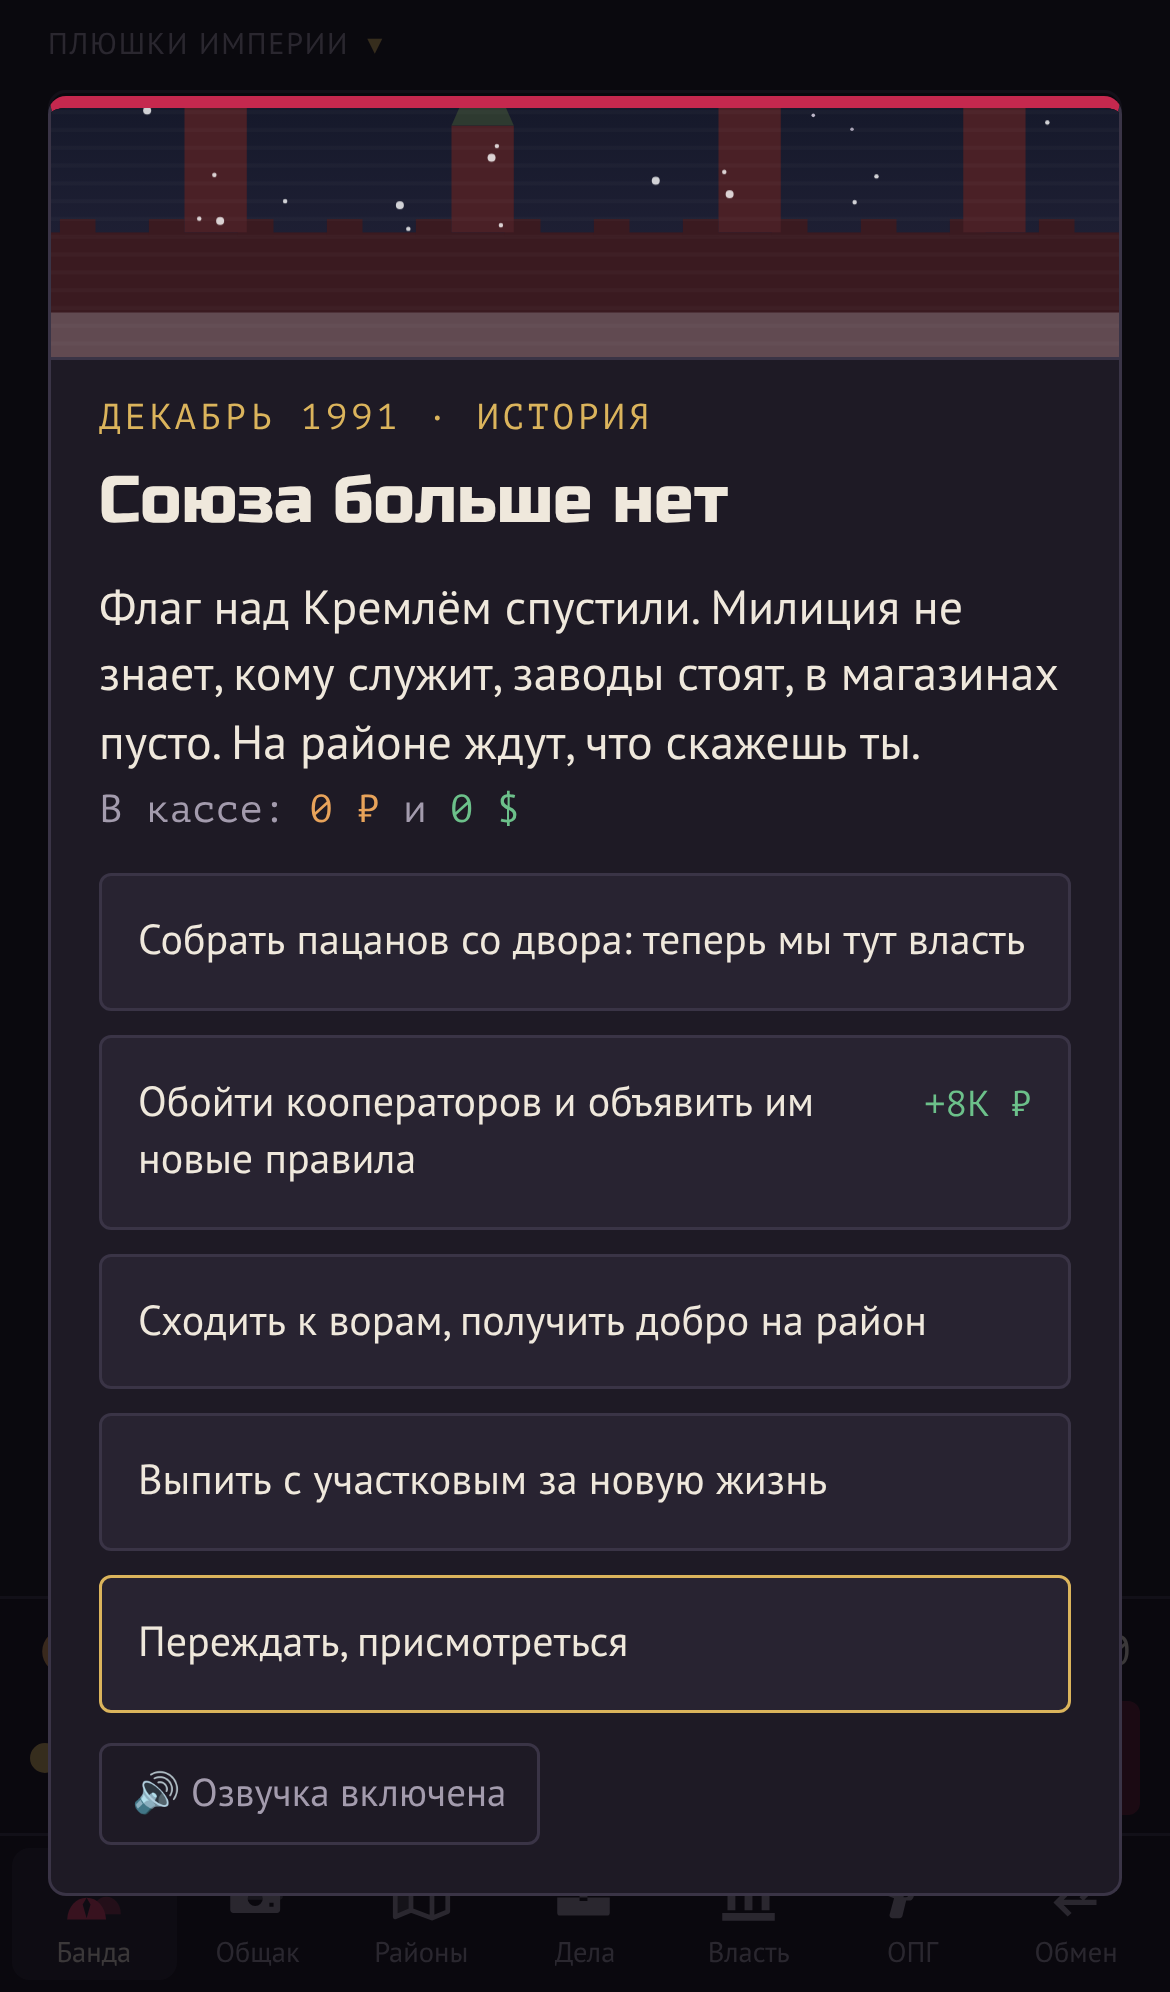
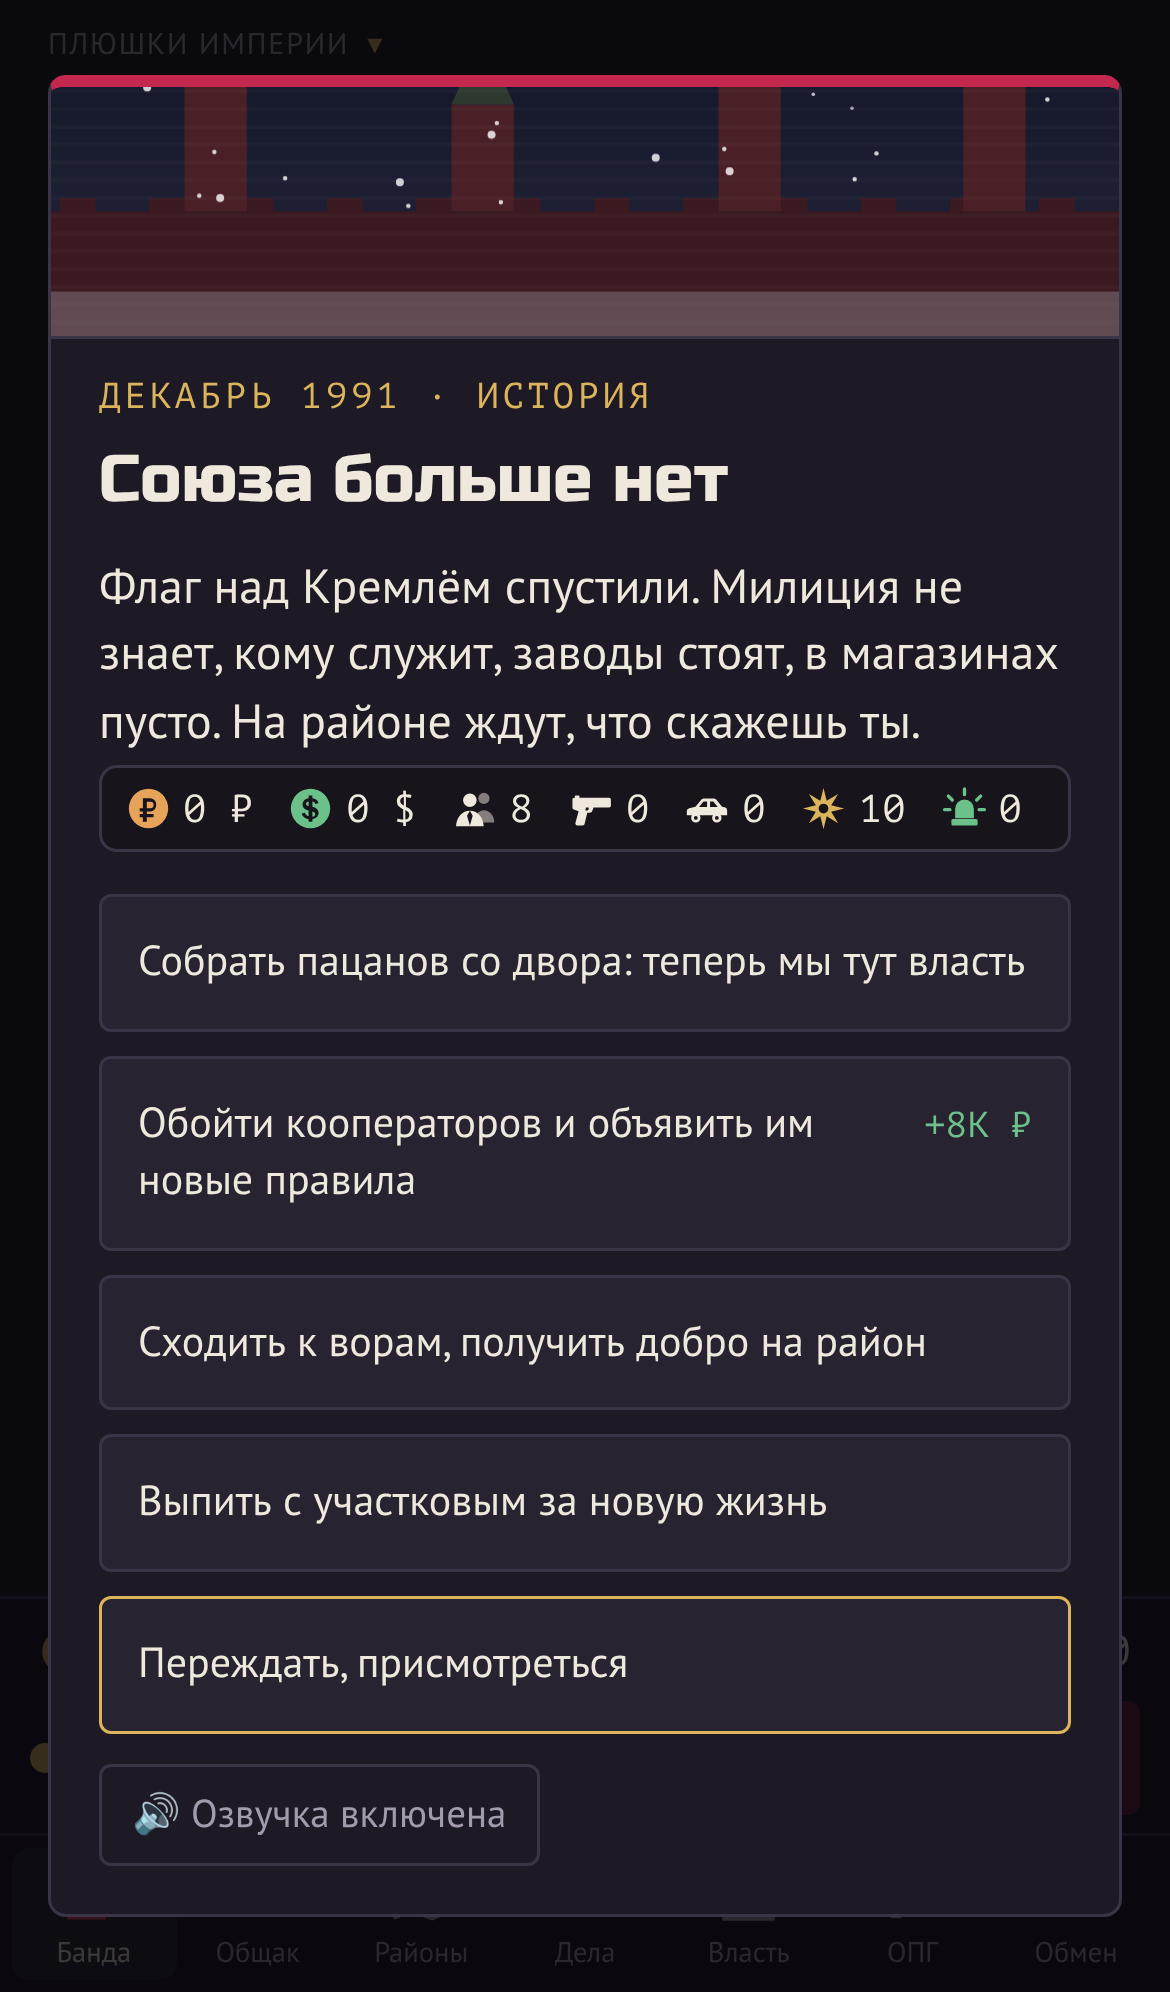
События: под текстом — строка с кассой и статами бригады (рубли, доллары, бойцы, стволы, тачки, авторитет, розыск)
Claude-Session: https://claude.ai/code/session_01VU3Wi5L5vmKTpxuVuK6v8i

diff --git a/sw.js b/sw.js
@@ -1,5 +1,5 @@
 /* Сервис-воркер «Передела»: собирается build.js. Игра работает без сети, обновления подтягиваются при следующем запуске. */
-const CACHE = 'peredel-ace5f76e26';
+const CACHE = 'peredel-baa6dccf92';
 const FILES = ["./","index.html","css/style.css","manifest.webmanifest","js/data.js","js/events.js","js/geo.js","js/engine.js","js/art.js","js/net.js","js/music.js","js/sfx.js","js/ui.js","img/arm-aks.jpg","img/arm-obrez.jpg","img/arm-pm.jpg","img/arm-rpg.jpg","img/arm-svd.jpg","img/b-bordel.jpg","img/b-bordel2.jpg","img/b-boutique.jpg","img/b-boutique2.jpg","img/b-boutique3.jpg","img/b-casino.jpg","img/b-casino3.jpg","img/b-chop.jpg","img/b-clinic.jpg","img/b-clinic2.jpg","img/b-clinic3.jpg","img/b-club.jpg","img/b-club2.jpg","img/b-dorm.jpg","img/b-dorm2.jpg","img/b-exchange.jpg","img/b-exchange3.jpg","img/b-factory.jpg","img/b-factory2.jpg","img/b-flat.jpg","img/b-flat2.jpg","img/b-flat3.jpg","img/b-fuel.jpg","img/b-fuel2.jpg","img/b-gunshop.jpg","img/b-gunshop3.jpg","img/b-gym.jpg","img/b-gym2.jpg","img/b-gym3.jpg","img/b-hotel.jpg","img/b-hotel2.jpg","img/b-hotel3.jpg","img/b-kiosk.jpg","img/b-kiosk2.jpg","img/b-kiosk3.jpg","img/b-land.jpg","img/b-land3.jpg","img/b-market.jpg","img/b-market2.jpg","img/b-market3.jpg","img/b-port.jpg","img/b-port2.jpg","img/b-port3.jpg","img/b-prem.jpg","img/b-prem3.jpg","img/b-rest.jpg","img/b-ritual.jpg","img/b-ritual2.jpg","img/b-ritual3.jpg","img/b-scrap.jpg","img/b-scrap2.jpg","img/b-scrap3.jpg","img/b-service.jpg","img/b-service2.jpg","img/b-service3.jpg","img/b-tir.jpg","img/b-tir2.jpg","img/b-tir3.jpg","img/b-video.jpg","img/b-vokzal.jpg","img/b-vokzal2.jpg","img/b-vokzal3.jpg","img/b-warehouse.jpg","img/b-warehouse2.jpg","img/b-warehouse3.jpg","img/car-audi.jpg","img/car-bmw.jpg","img/car-cayenne.jpg","img/car-e65.jpg","img/car-escalade.jpg","img/car-gelik.jpg","img/car-jeep.jpg","img/car-lc100.jpg","img/car-merc.jpg","img/car-nine.jpg","img/car-rr.jpg","img/car-uaz.jpg","img/car-w220.jpg","img/car-x5.jpg","img/d-avtoz.jpg","img/d-bank.jpg","img/d-cars.jpg","img/d-club.jpg","img/d-coal.jpg","img/d-drugs.jpg","img/d-gold.jpg","img/d-gsm.jpg","img/d-guns.jpg","img/d-kidnap.jpg","img/d-mall.jpg","img/d-media.jpg","img/d-metal.jpg","img/d-oil.jpg","img/d-olymp.jpg","img/d-seaport.jpg","img/d-slots.jpg","img/d-tower.jpg","img/d-vodka.jpg","img/vest.jpg","icons/apple-180.png","icons/icon-192.png","icons/icon-512.png","icons/maskable-512.png"];
 self.addEventListener('install', e => { e.waitUntil(caches.open(CACHE).then(c => c.addAll(FILES)).then(() => self.skipWaiting())); });
 self.addEventListener('activate', e => { e.waitUntil(caches.keys().then(ks => Promise.all(ks.filter(k => k !== CACHE).map(k => caches.delete(k)))).then(() => self.clients.claim())); });

diff --git a/js/ui.js b/js/ui.js
@@ -1142,7 +1142,7 @@
     else if (ev.off) h += '<div class="evwho"><span class="ava">' + A.officialFace(ev.off) + '</span><div><b>' + esc(D.OFFICIALS[ev.off].name) + '</b><small>Пришёл не с пустыми руками: с папкой.' + (p.off[ev.off] ? ' Свой такой у тебя уже есть, но этот — чужой.' : '') + '</small></div></div>';
     else if (w) h += '<div class="evwho"><span class="ava">' + A.face(w) + '</span><div><b>' + esc(E.cname(w)) + '</b><small>' + (w.pos ? slotName(w.pos, w.ok) : 'резерв') + ' · сила ' + w.str + ', ум ' + w.wit + ', верность ' + w.loy + (ev.advice ? '. Чем умнее советчик, тем вернее его совет' : '') + '</small></div></div>';
     h += '<p class="lead">' + tx(ev.text) + '</p>';
-    { const cc = E.cur(p); h += '<div class="evcash">В кассе: <b>' + rubP(cc.rub) + '</b> и <b class="good">' + usdP(cc.usd) + '</b></div>'; }
+    { const cc = E.cur(p), it = (ic, v, t) => '<span title="' + t + '">' + A.icon(ic) + '<b>' + v + '</b></span>'; h += '<div class="evcash">' + it('rub', rubP(cc.rub), 'Рубли') + it('usd', usdP(cc.usd), 'Доллары') + it('men', p.men, 'Бойцы') + it('gun', p.guns, 'Стволы') + it('car', p.cars, 'Тачки') + it('rep', R(p.rep), 'Авторитет') + it('heat', R(p.heat), 'Розыск') + '</div>'; }
     h += '<div class="opts">';
     ev.opts.forEach((o, k) => { const os = E.optState(S, me, o); h += '<button class="opt" data-a="opt" data-k="' + k + '"' + (os.lock ? ' disabled' : '') + '><span>' + tx(o.t) + '</span>' + (os.cost ? '<em>−' + rubP(os.cost) + '</em>' : '') + (() => { const m = E.era(S), g = (o.$ > 0 ? Math.round(o.$ * m) : 0) + (o.get ? Math.round(o.get * m) : 0), l = o.later ? Math.round(o.later * m) : 0; return (g ? '<em class="gain">+' + rubP(g) + '</em>' : '') + (l ? '<em class="' + (l > 0 ? 'gain' : '') + '">' + (l > 0 ? '+' : '−') + rubP(Math.abs(l)) + ' потом</em>' : ''); })() + (os.lock ? '<small>' + esc(os.lock) + '</small>' : '') + '</button>'; });
     const vs = ruVoices(), cur = maleVoice();

diff --git a/index.html b/index.html
@@ -2,7 +2,7 @@
 <html lang="ru">
 <head>
 <meta charset="utf-8">
-<meta name="app-ver" content="92084dce27">
+<meta name="app-ver" content="d2517b894b">
 <meta name="viewport" content="width=device-width, initial-scale=1, viewport-fit=cover">
 <title>Передел</title>
 <link rel="manifest" href="manifest.webmanifest">
@@ -14,7 +14,7 @@
 <meta name="apple-mobile-web-app-title" content="Передел">
 <script>if (/tgWebApp/.test(location.hash + location.search)) document.write('<script src="https://telegram.org/js/telegram-web-app.js"><\/script>');</script>
 <link rel="stylesheet" href="https://fonts.googleapis.com/css2?family=PT+Mono&family=PT+Sans:wght@400;700&family=Russo+One&display=swap">
-<link rel="stylesheet" href="css/style.css?v=92084dce27">
+<link rel="stylesheet" href="css/style.css?v=d2517b894b">
 <style>body{margin:0}[hidden]{display:none!important}</style>
 </head>
 <body>
@@ -50,15 +50,15 @@
 </div>
 <div id="modal" hidden></div>
 <div id="toast" hidden role="status"></div>
-<script src="js/data.js?v=92084dce27"></script>
-<script src="js/events.js?v=92084dce27"></script>
-<script src="js/geo.js?v=92084dce27"></script>
-<script src="js/engine.js?v=92084dce27"></script>
-<script src="js/art.js?v=92084dce27"></script>
-<script src="js/net.js?v=92084dce27"></script>
-<script src="js/music.js?v=92084dce27"></script>
-<script src="js/sfx.js?v=92084dce27"></script>
-<script src="js/ui.js?v=92084dce27"></script>
+<script src="js/data.js?v=d2517b894b"></script>
+<script src="js/events.js?v=d2517b894b"></script>
+<script src="js/geo.js?v=d2517b894b"></script>
+<script src="js/engine.js?v=d2517b894b"></script>
+<script src="js/art.js?v=d2517b894b"></script>
+<script src="js/net.js?v=d2517b894b"></script>
+<script src="js/music.js?v=d2517b894b"></script>
+<script src="js/sfx.js?v=d2517b894b"></script>
+<script src="js/ui.js?v=d2517b894b"></script>
 <script>if ('serviceWorker' in navigator && location.protocol === 'https:') navigator.serviceWorker.register('sw.js');</script>
 </body>
 </html>

diff --git a/css/style.css b/css/style.css
@@ -865,7 +865,9 @@ ul.plain { padding-left: 18px; margin: 0 0 12px; } ul.plain li { margin: 0 0 4px
 
 .voicebtn { margin-top: 10px; }
 
-.evcash { margin: -4px 0 10px; font: 13px var(--mono); color: var(--dim); } .evcash b { color: #e8a35a; font-weight: 400; } .evcash b.good { color: var(--good); }
+.evcash { display: flex; flex-wrap: wrap; gap: 4px 12px; margin: -4px 0 10px; padding: 6px 8px; border: 1px solid var(--line); border-radius: 6px; background: #17141c; font: 13px var(--mono); }
+.evcash span { display: inline-flex; align-items: center; gap: 4px; } .evcash .ico { width: 15px; height: 15px; } .evcash b { font-weight: 400; color: var(--fg); }
+.evcash span:nth-child(1) .ico { color: #e8a35a; } .evcash span:nth-child(2) .ico { color: var(--good); } .evcash span:nth-child(6) .ico { color: var(--gold); } .evcash span:nth-child(7) .ico { color: var(--good); }
 .opt em.gain { color: var(--good); }
 
 .voicerow { gap: 8px; align-items: center; margin-top: 10px; } .voicerow .voicebtn { margin: 0; } .voicesel { flex: 1; min-width: 0; background: var(--bg); color: var(--fg); border: 1px solid var(--line); border-radius: 4px; padding: 6px 8px; font: inherit; font-size: 13px; }
